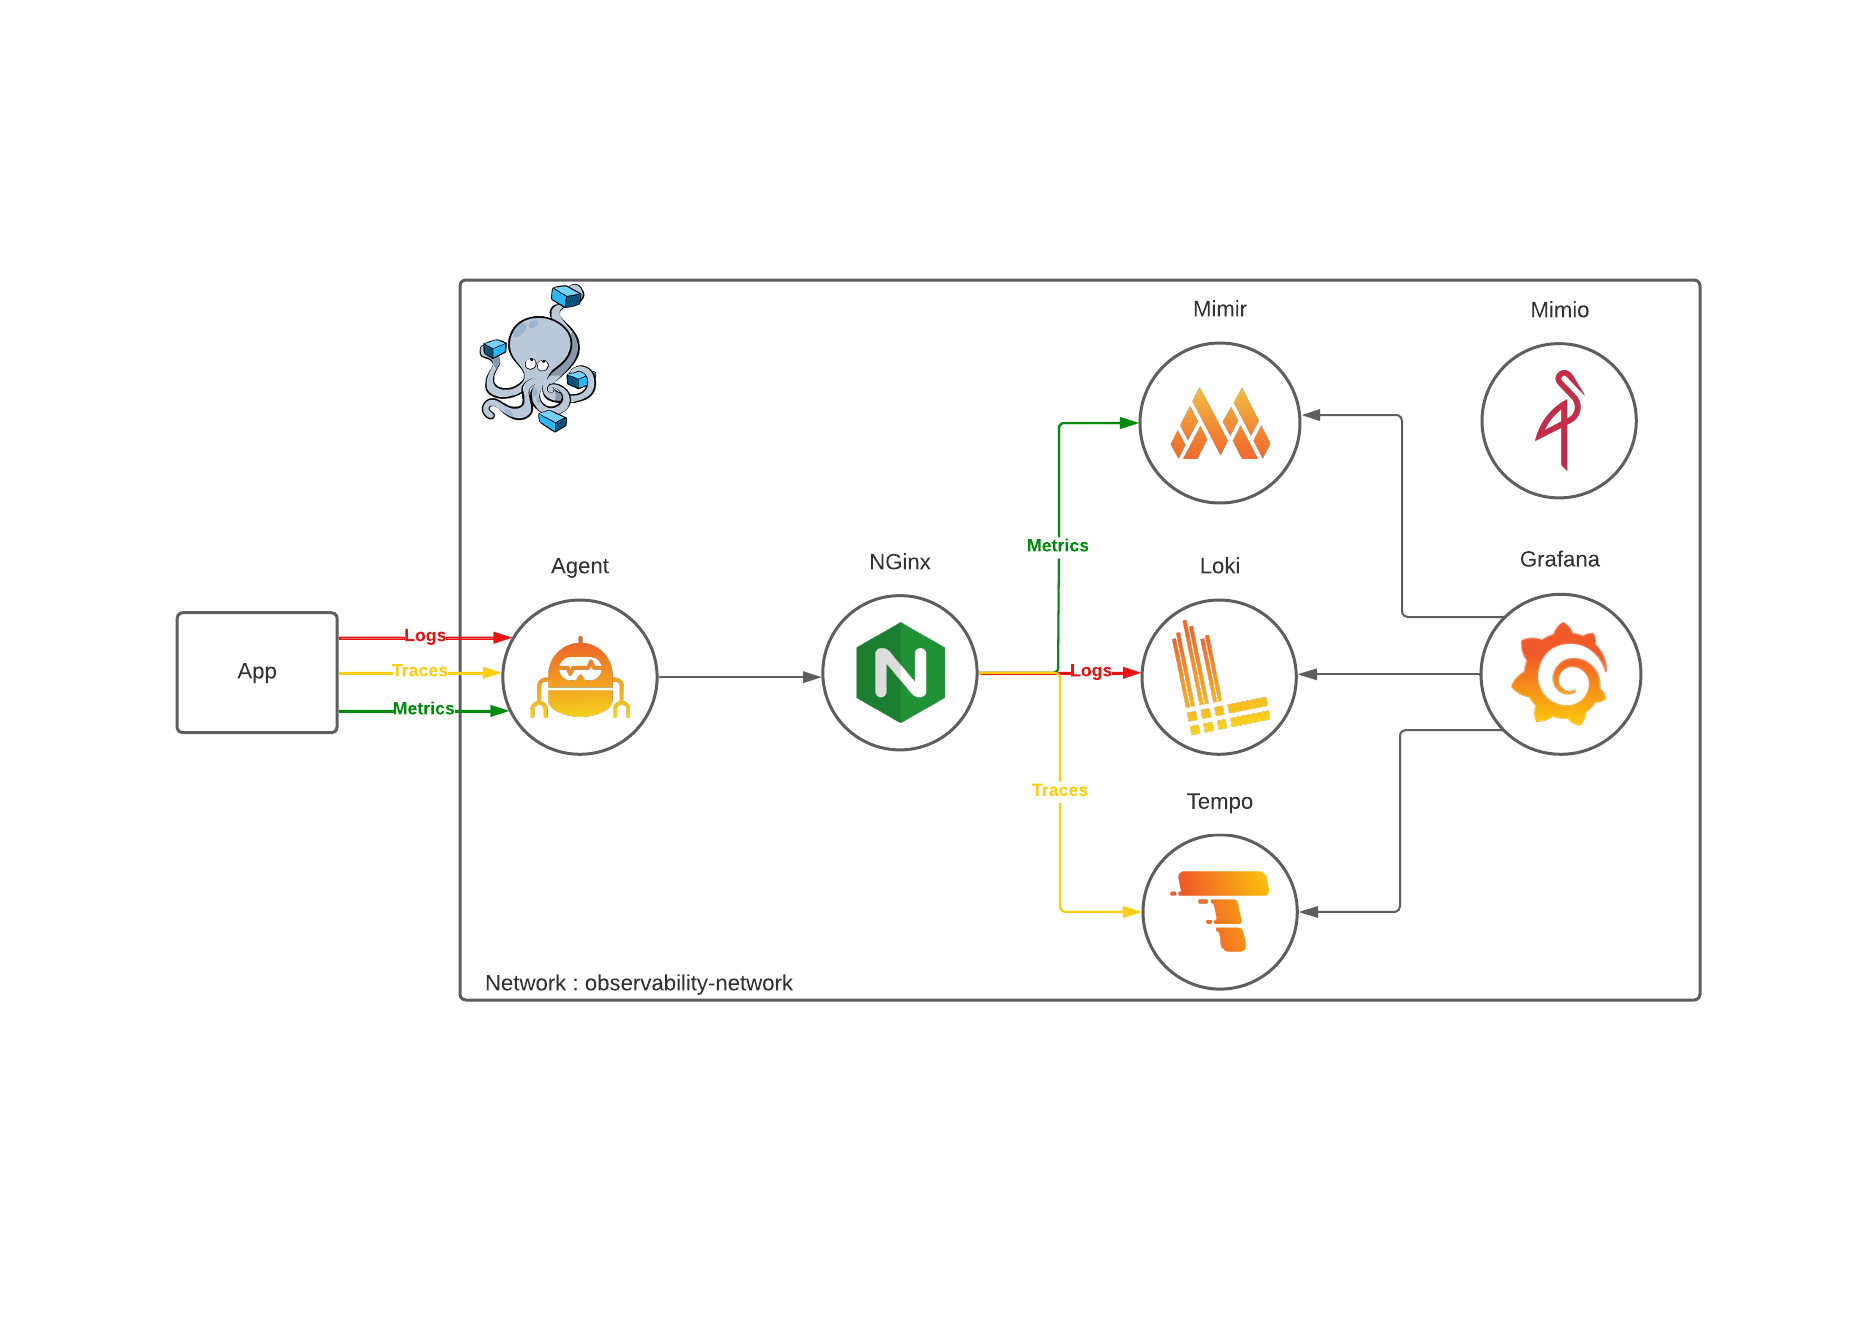
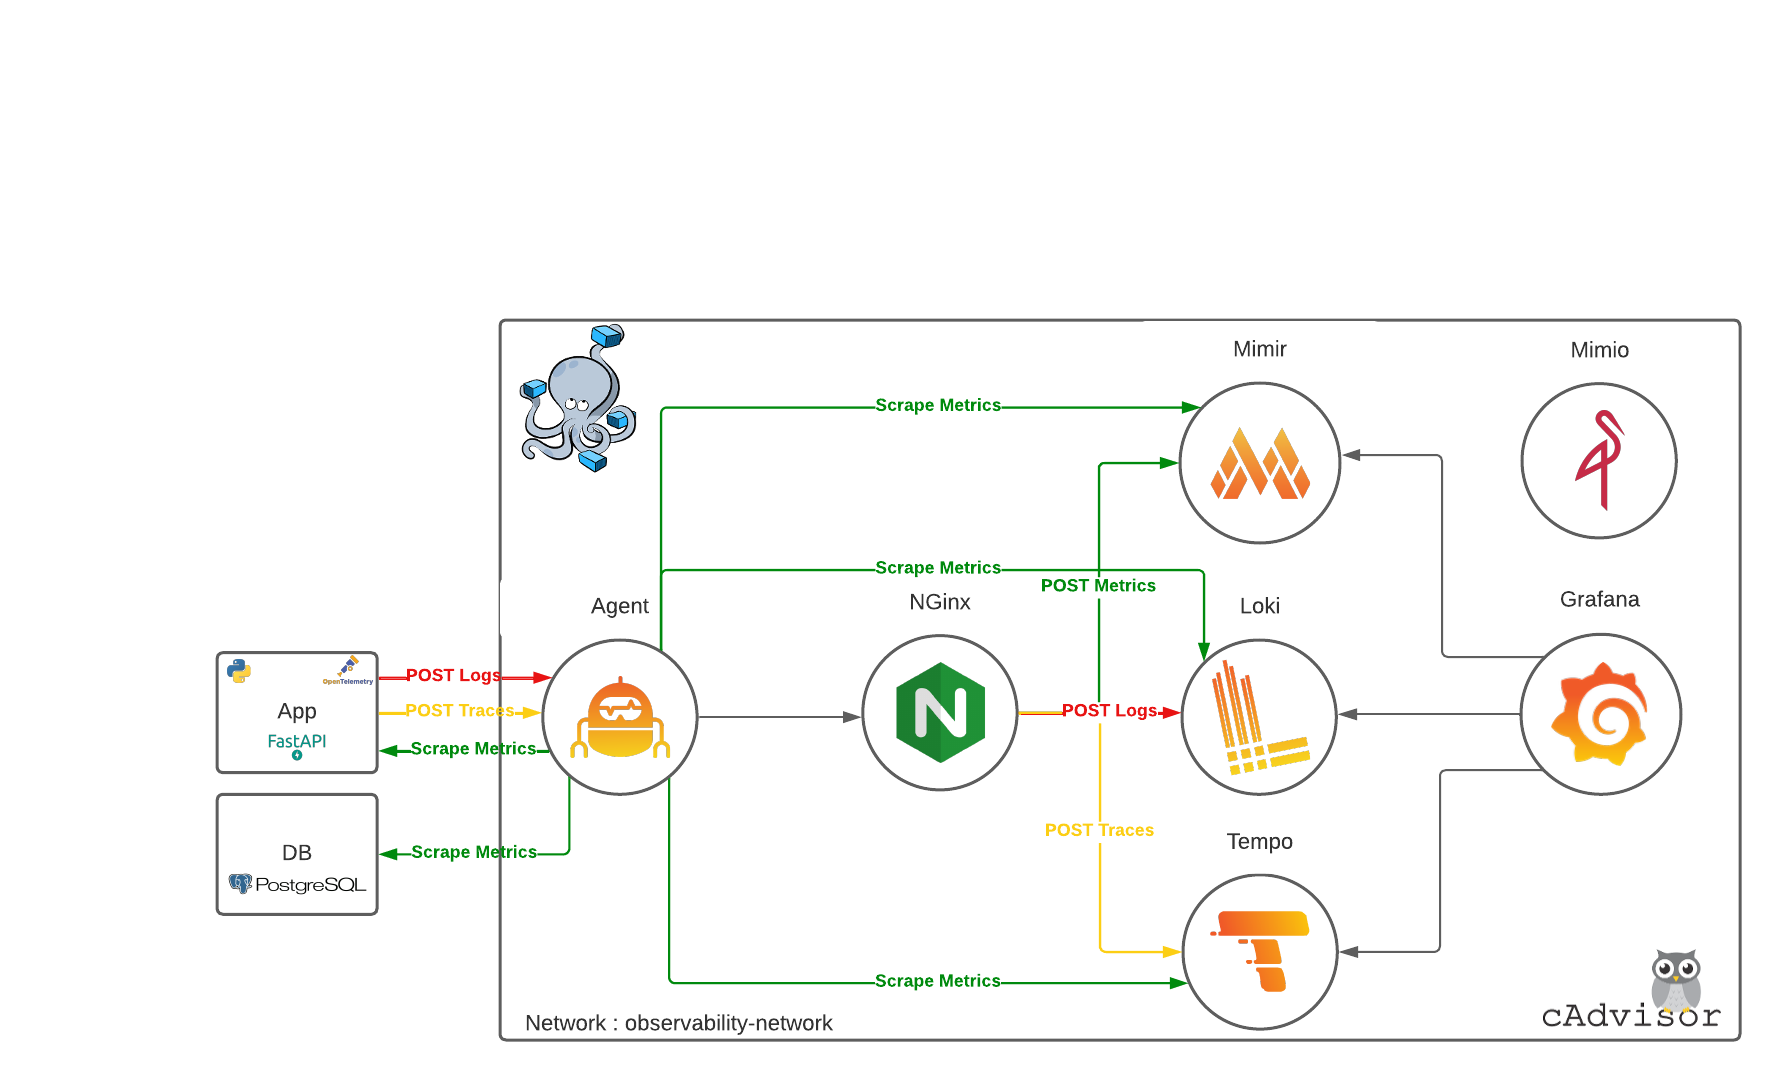
Update README and architecture schema and CHANGELOG

diff --git a/README.md b/README.md
@@ -2,7 +2,7 @@
     <img src="./assets/observability.png" alt="Observability" width="500"/>
 </p>
 
-![alt version](https://img.shields.io/badge/Version-0.0.3-violet)
+![alt version](https://img.shields.io/badge/Version-0.0.5-violet)
 ![alt production](https://img.shields.io/badge/Production--Ready-No-green)
 ![alt docker](https://img.shields.io/badge/Deployment_tool-Docker--Compose-orange)
 ![alt ARM](https://img.shields.io/badge/Platform-ARM--M1-red)
@@ -17,12 +17,16 @@ This for testing purpose.
 
 # Architecture
 
-The observability stack is composed by Mimir, Loki and Tempo which are deployed in Monolithic mode with 3 instances of each.
-The application stack is composed by a FastAPI application with some routes and PostgreSQL database with 1 table.
-Logs are written in a log file, scrape by [Grafana Promtail](https://grafana.com/docs/loki/latest/clients/promtail/) and send to Grafana Agent.
-Metrics are exposed via [Prometheus Client](https://github.com/prometheus/client_python) and scraped by Grafana Agent.
-Traces are sent via [Opentelemetry SDK](https://github.com/open-telemetry/opentelemetry-python) to Grafana Agent.
-Unit tests are performed by [k6.io](https://k6.io).
+The observability stack is composed by Mimir, Loki and Tempo which are deployed in Monolithic mode with 3 instances of each.  
+It's also include a Grafana vizualisation tool.  
+The application stack is composed by a FastAPI application with some routes and PostgreSQL database with 1 table.  
+Logs are written in a log file, scrape by [Grafana Promtail](https://grafana.com/docs/loki/latest/clients/promtail/) and send to Grafana Agent.  
+Metrics are exposed via [Prometheus Client](https://github.com/prometheus/client_python) and scraped by Grafana Agent.  
+Traces are sent via [Opentelemetry SDK](https://github.com/open-telemetry/opentelemetry-python) to Grafana Agent.  
+Unit tests are performed by [k6.io](https://k6.io). 
+
+Mimir, Loki and Tempo metrics are also exposed througth Grafana Agent.  
+The metrics of all containers are exposed with cAdvisor.  
 
 ![alt schema](./assets/Observability-Grafana_Stack.png)
 
@@ -108,15 +112,17 @@ Grafana --> Nginx : 4702 --> Mimir : 3703
 | [<img src="./assets/grafana.png" alt="Grafana" width="200"/>](https://grafana.com/docs/grafana/latest/) | v9.3.1 | Used to visualize data (like Kibana). Based on https://github.com/grafana/grafana |
 | [<img src="./assets/minio.png" alt="Minio" width="200"/>](https://min.io) | Latest | Used to load balance traffic between each instance (on Cloud, use S3, Google Cloud Storage or similar). Based on https://github.com/minio/minio |
 | [<img src="./assets/nginx.png" alt="NGinx" width="200"/>](https://www.nginx.com/) | Latest | Used to load balance traffic between each instance. Based on https://github.com/nginx/nginx |
+| [<img src="./assets/cadvisor.png" alt="cAdvisor" width="200"/>](https://github.com/google/cadvisor) | Latest | Used to expose all containers metrics |
+
 
 ## Application stack
 Thanks to [@Blueswen](https://github.com/blueswen) for the FastAPI observability configuration.
 
 |                   Logo/Link                   |      Version    |               Usage                 |
 |:---------------------------------------------:|-----------------|-------------------------------------|
-| [<img src="./assets/promtail.png" alt="Promtail" width="200">](https://grafana.com/docs/loki/latest/clients/promtail/) | Latest | Used to scrape application logs from file. |
+| [<img src="./assets/promtail.png" alt="Promtail" height="100">](https://grafana.com/docs/loki/latest/clients/promtail/) | Latest | Used to scrape application logs from file. |
 | [<img src="./assets/fastapi.png" alt="FastAPI" width="200">](https://fastapi.tiangolo.com) | 0.88.0 | Used to expose API. Based on  https://github.com/Blueswen/fastapi-observability |
 | [<img src="./assets/postgresql.png" alt="PostgreSQL" width="200">](https://www.postgresql.org) | 15-Bullseye | Used to store application data. |
-| [<img src="./assets/prometheus.png" width="200">](https://github.com/prometheus-community/postgres_exporter) | Latest | Used to export Postgres metrics. Based on https://hub.docker.com/r/wrouesnel/postgres_exporter |
-| [<img src="./assets/k6.png" alt="k6.io" width="200">](https://www.k6.io) | Latest | Used to performed unit tests. |
+| [<img src="./assets/prometheus.png" height="100">](https://github.com/prometheus-community/postgres_exporter) | Latest | Used to export Postgres metrics. Based on https://hub.docker.com/r/wrouesnel/postgres_exporter |
+| [<img src="./assets/k6.png" alt="k6.io" height="100">](https://www.k6.io) | Latest | Used to performed unit tests. |
 | [<img src="./assets/otel.png" alt="OpenTelemetry" width="200">](https://github.com/open-telemetry/opentelemetry-python) | 1.15.0 | Used to generate traces. |

diff --git a/CHANGELOG.md b/CHANGELOG.md
@@ -1,3 +1,17 @@
+0.0.5 - 2023-03-23
+===================
+
+### Features
+- Add cAdivsor container to catch containers metrics + [dashboard](./grafana/dashboards/cadvisor.json) (@thomasdesplaces)
+- Add [Mimir continuous tests](./docker-compose.metrics.yaml) + [dashboard](./grafana/dashboards/mimir-overview.json) (@thomasdesplaces)
+- Add [k6 backend tests results in Mimir](./docker-compose.backend.yaml) + [dashboard](./grafana/dashboards/k6-backend.json) (@thomasdesplaces)
+
+### Updating
+- Split Docker-Compose file in multiple files for better readability (@thomasdesplaces)
+- Update Docker-Compose version in all files + change [k6 test duration](./generate_data_application/load_tests/script.js) (@thomasdesplaces)
+- Update [README](./README.md) with some informations (@thomasdesplaces)
+- Update [architecture schema](./assets/Observability-Grafana_Stack.png) with informations about exposed metrics and cAdvisor (@thomasdesplaces)
+
 0.0.4 - 2023-03-16
 ===================
 
@@ -18,7 +32,7 @@
 
 ### Updating
 - Update [GitIgnore](./.gitignore) (@thomasdesplaces)
-- Update README with some informations about ports and postgres exporter (@thomasdesplaces)
+- Update [README](./README.md) with some informations about ports and postgres exporter (@thomasdesplaces)
 - Reduce testing time from 30s to 10s in [k6](./generate_data_application/load_tests/script.js) (@thomasdesplaces)
 - Change the log level from DEBUG to INFO in [settings](./generate_data_application/backend/app/settings.py) (@thomasdesplaces)
 
